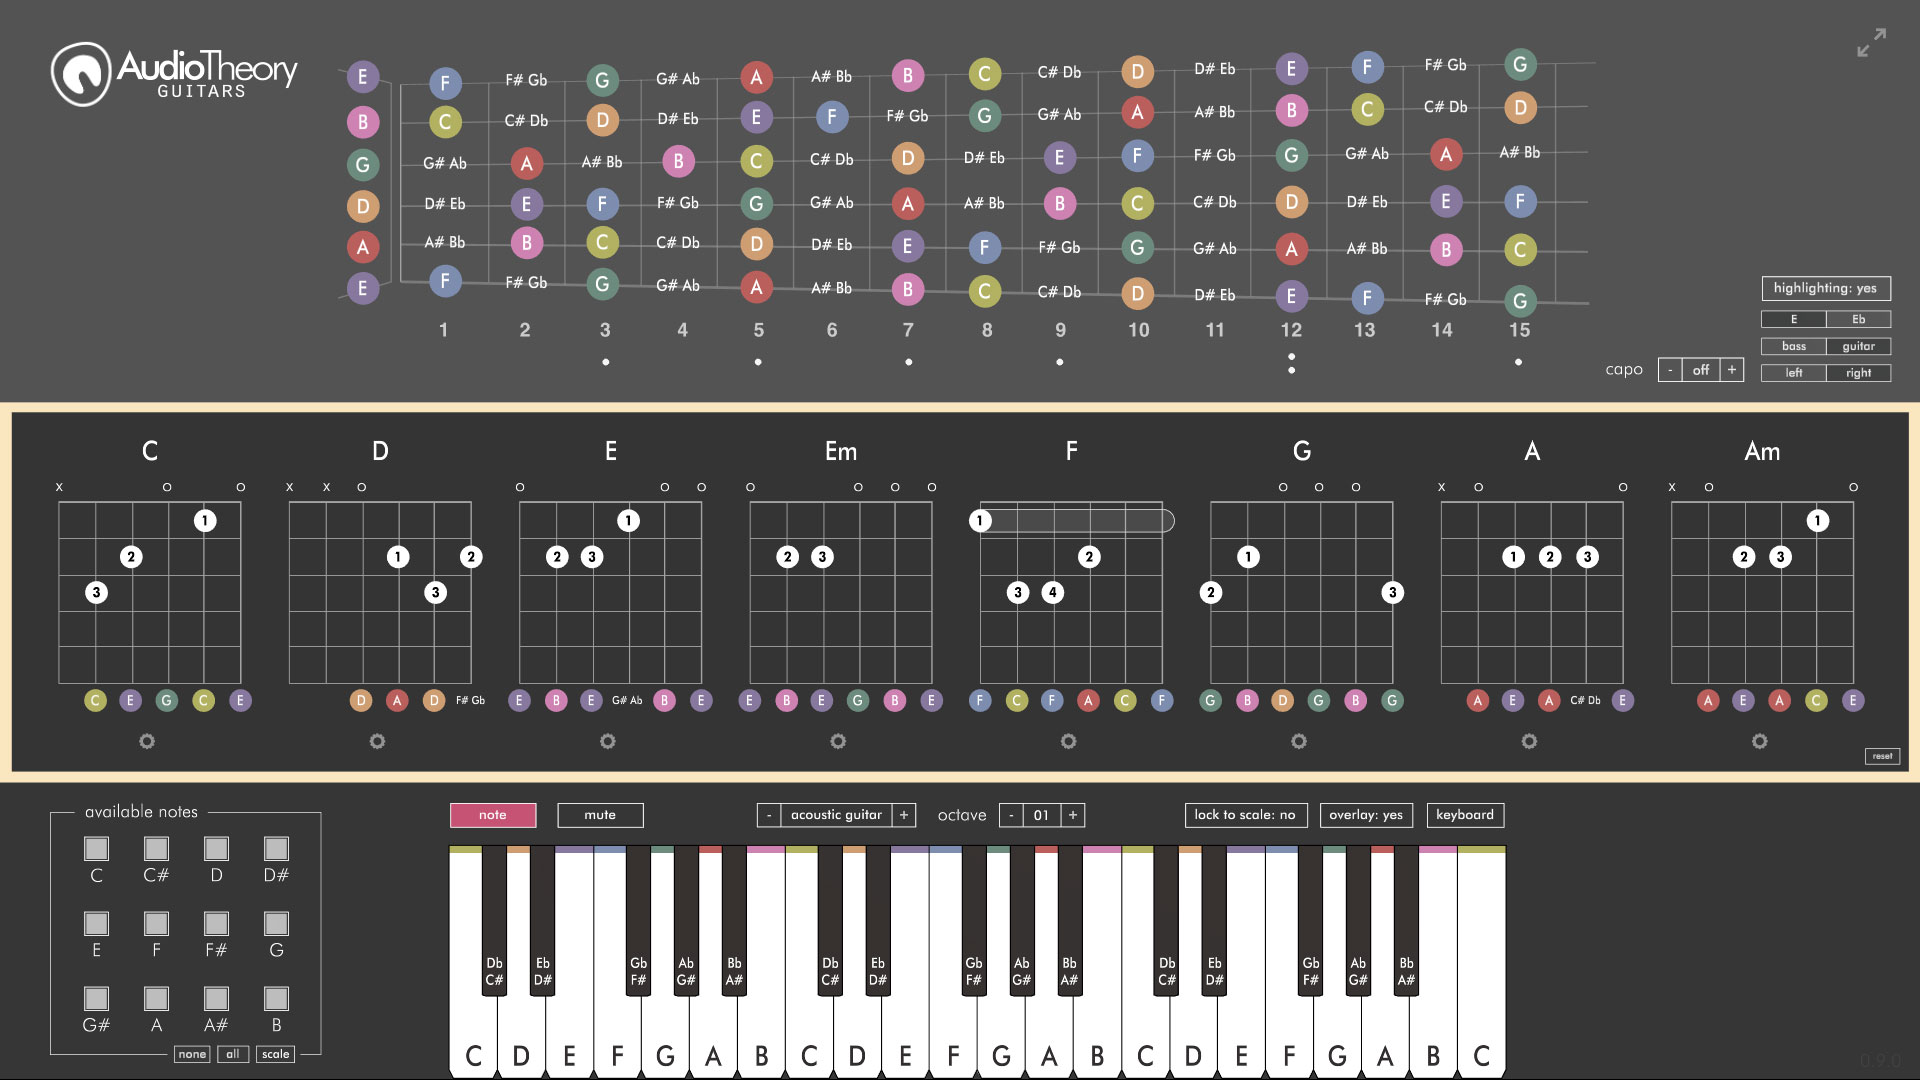
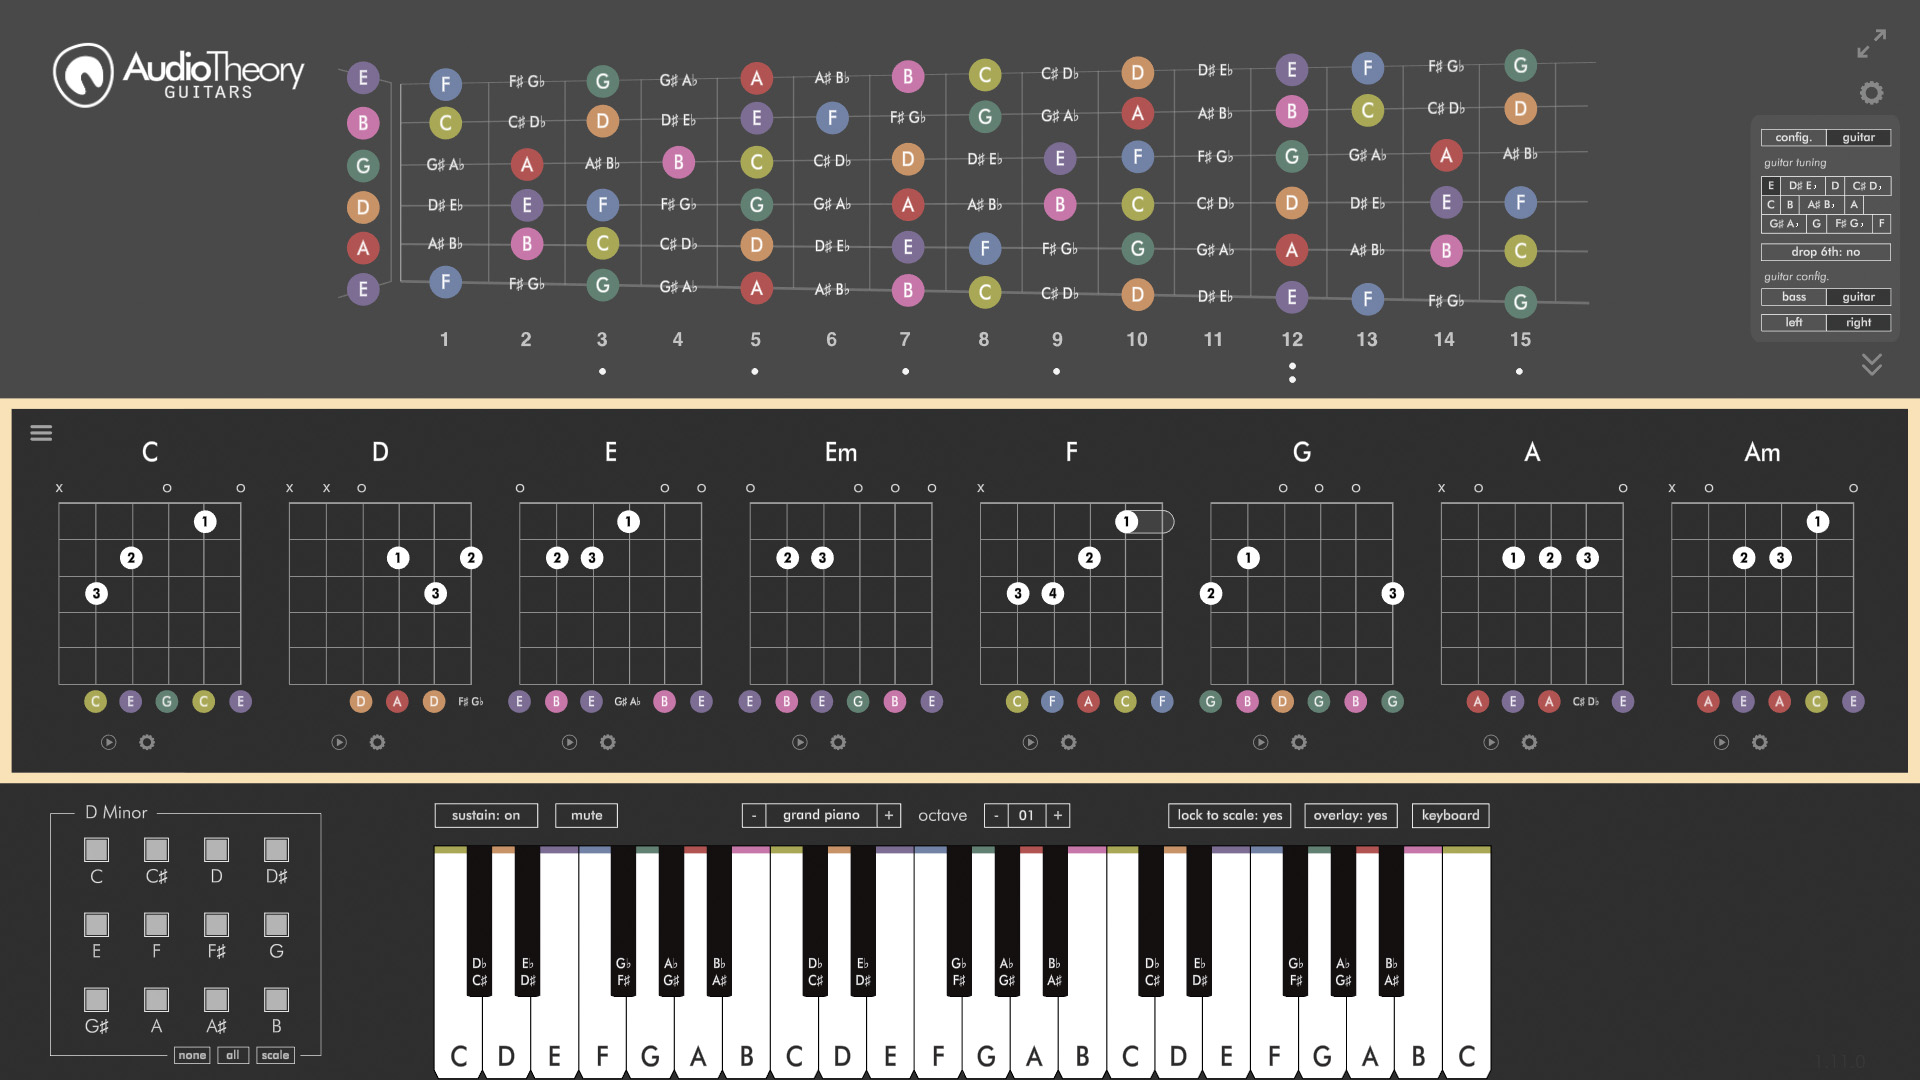
sh command line update

diff --git a/index.html b/index.html
@@ -87,7 +87,7 @@
 </div>
 <div class="text-block align-center italic">
     <p>
-    "The Rosetta Stone for Guitar Theory" 
+        Revolutionary music theory software
     </p>
 </div>
 
@@ -329,7 +329,7 @@
         <div class='slick-slider drop-shadow'>
             <div>
                 <img class="feature-image-960" src="images/AudioTheory-02.jpg" alt="" />
-                <span class="grid-name carousel-caption">Adjustable Capo</span>
+                <span class="grid-name carousel-caption">Adjustable Tuning & Capo</span>
             </div>
             <div>
                 <img class="feature-image-960" src="images/AudioTheory-01.jpg" alt="" />
@@ -353,7 +353,7 @@
 
         <div class="column-3-reduced-padding">
             <img class="drop-shadow-light" src="images/AudioTheory-02.gif" alt="Kitchen" />
-            <span class="grid-name">Adjustable Capo</span>
+            <span class="grid-name">Adjustable Tuning & Capo</span>
         </div>
 
         <div class="column-3-reduced-padding">
@@ -378,7 +378,7 @@
         <ul class="bullet">
             <li class="b"><strong>Seamlessly transcribe</strong> between piano and guitar using a straight-forward colour coding system and notation highlighting. 
                 Play a note on the keyboard to instantly see where it is in your chords and on your fretboard.</li>
-            <li class="b"><strong>Set your capo</strong> and everything adjusts accordingly – no need for a chord transposition chart.</li>
+            <li class="b"><strong>Set your tuning and capo</strong>. Everything else adjusts accordingly – no need for a chord transposition chart.</li>
             <li class="b"><strong>Exclude notes</strong> and never play out of key again. Your fretboard diagram now only shows the notes you need and your keyboard doesn't play the ones don't.</li>
             <li class="b"><strong>Chord and note playback</strong>. Select your chords and notes from the diagrams to play them on the keyboard.</li>
 

diff --git a/style.css b/style.css
@@ -116,7 +116,7 @@ img {
 
 }
 .logo-offset {
-    margin-right:90px;
+    margin-right:40px;
 }
 @media (max-width: 480px) {
     .feature-logo {
